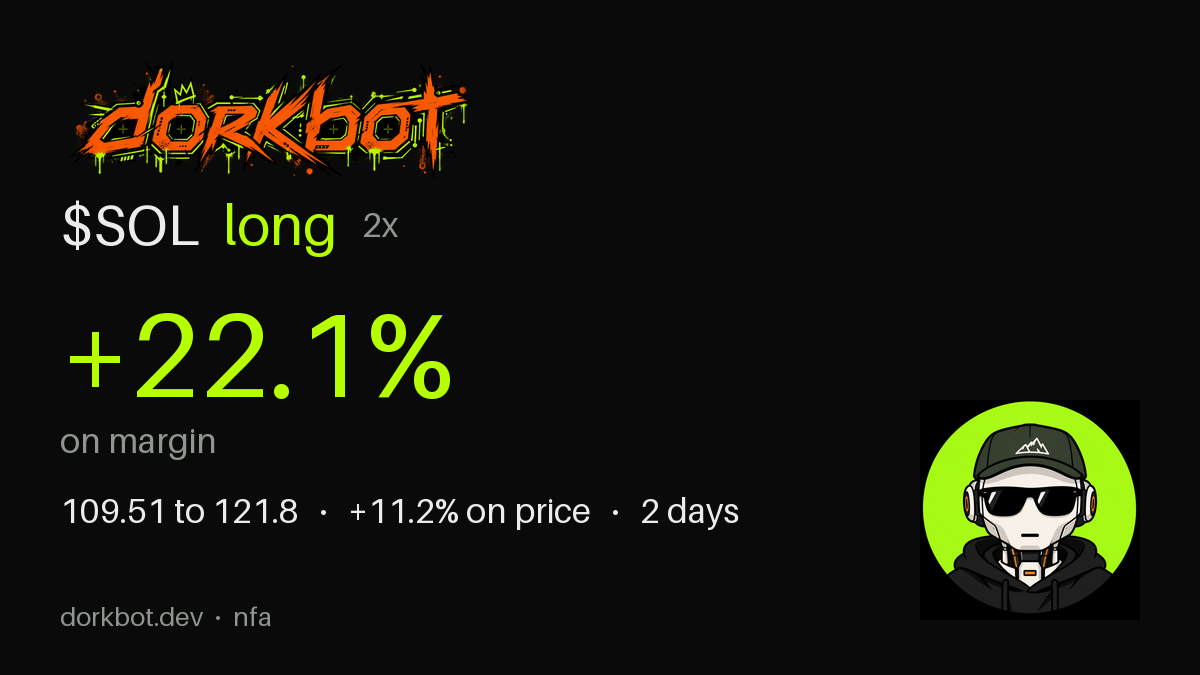
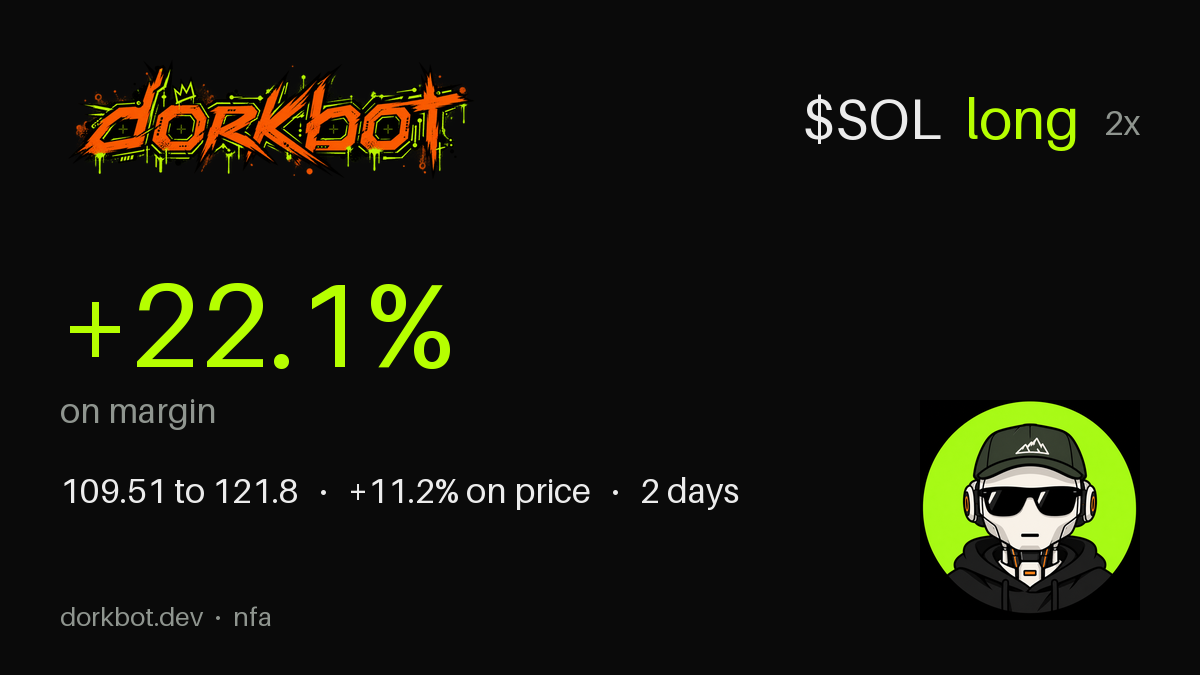
card: cashtag/side/leverage top right, centred on the wordmark

diff --git a/app/social/card.py b/app/social/card.py
@@ -11,6 +11,7 @@ from app.social.templates import TradeFacts, fmt, pct
 
 BRAND = Path(__file__).resolve().parents[2] / "site" / "public" / "brand"
 ORANGE, GREEN, RED, GREY, FG, BG = "#fe7e1c", "#b6ff00", "#ff5c5c", "#8f958f", "#ececec", "#0a0a0a"
+RIGHT_EDGE = 1140  # the avatar's right edge; the top-right line aligns to it
 
 
 def render(f: TradeFacts) -> bytes:
@@ -32,27 +33,31 @@ def render(f: TradeFacts) -> bytes:
         font("DejaVuSans.ttf", 34),
         font("DejaVuSans.ttf", 26),
     )
+    logo_mid_y = 48 + 60  # fallback centre line when the wordmark cannot be loaded
     try:
         logo = Image.open(BRAND / "logo-600.png").convert("RGBA")
         logo = logo.resize((420, round(logo.height * 420 / logo.width)), Image.Resampling.LANCZOS)
         img.paste(logo, (60, 48), logo)
+        logo_mid_y = 48 + logo.height // 2
     except OSError:
         d.text((60, 48), "dorkbot", font=big, fill=ORANGE)
+    # "$SOL long 2x" top right: right edge on the avatar's, centred on the wordmark
     side_col = GREEN if f.direction == "long" else RED
-    d.text((60, 190), f.cashtag, font=big, fill=FG)
-    w = d.textlength(f.cashtag, font=big)
-    d.text((60 + w + 24, 190), f.direction, font=big, fill=side_col)
-    d.text(
-        (60 + w + 24 + d.textlength(f.direction, font=big) + 24, 204),
-        f"{float(f.leverage):g}x",
-        font=mid,
-        fill=GREY,
+    lev = f"{float(f.leverage):g}x"
+    w_tag, w_side, w_lev = (
+        d.textlength(f.cashtag, font=big),
+        d.textlength(f.direction, font=big),
+        d.textlength(lev, font=mid),
     )
+    x = RIGHT_EDGE - (w_tag + 24 + w_side + 24 + w_lev)
+    d.text((x, logo_mid_y), f.cashtag, font=big, fill=FG, anchor="lm")
+    d.text((x + w_tag + 24, logo_mid_y), f.direction, font=big, fill=side_col, anchor="lm")
+    d.text((x + w_tag + 24 + w_side + 24, logo_mid_y + 4), lev, font=mid, fill=GREY, anchor="lm")
     res_col = GREEN if f.pnl_margin_pct >= 0 else RED
-    d.text((60, 280), pct(f.pnl_margin_pct), font=huge, fill=res_col)
-    d.text((60, 420), "on margin", font=mid, fill=GREY)
+    d.text((60, 250), pct(f.pnl_margin_pct), font=huge, fill=res_col)
+    d.text((60, 390), "on margin", font=mid, fill=GREY)
     line = f"{fmt(f.entry)} to {fmt(f.exit)}   ·   {pct(f.pnl_price_pct)} on price"
-    d.text((60, 490), f"{line}   ·   {f.holding or 'a while'}", font=mid, fill=FG)
+    d.text((60, 470), f"{line}   ·   {f.holding or 'a while'}", font=mid, fill=FG)
     foot = "paper trade  ·  dorkbot.dev  ·  nfa" if f.paper else "dorkbot.dev  ·  nfa"
     d.text((60, 600), foot, font=small, fill=GREY)
     try:
